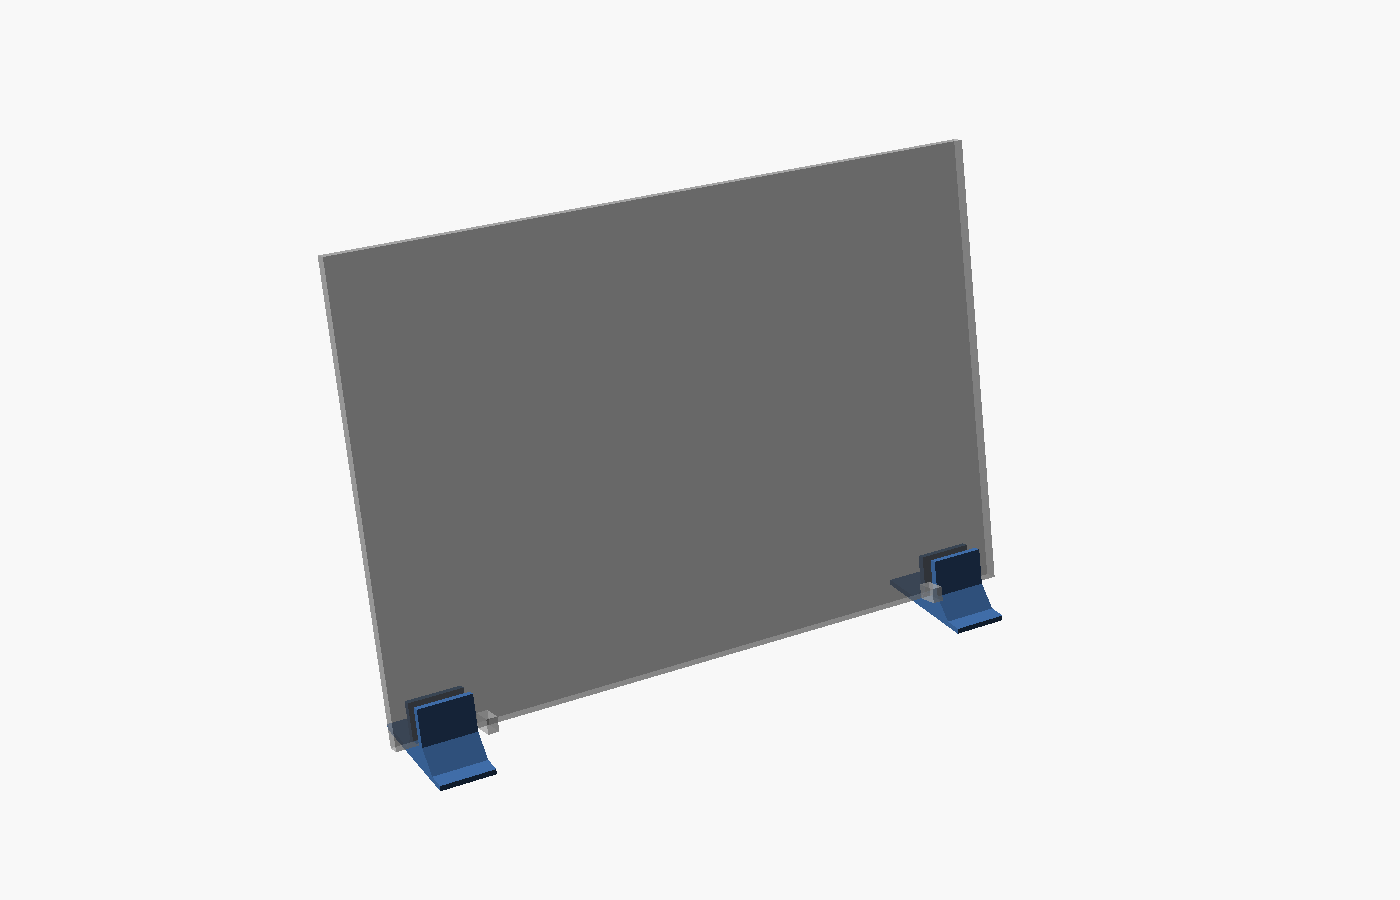
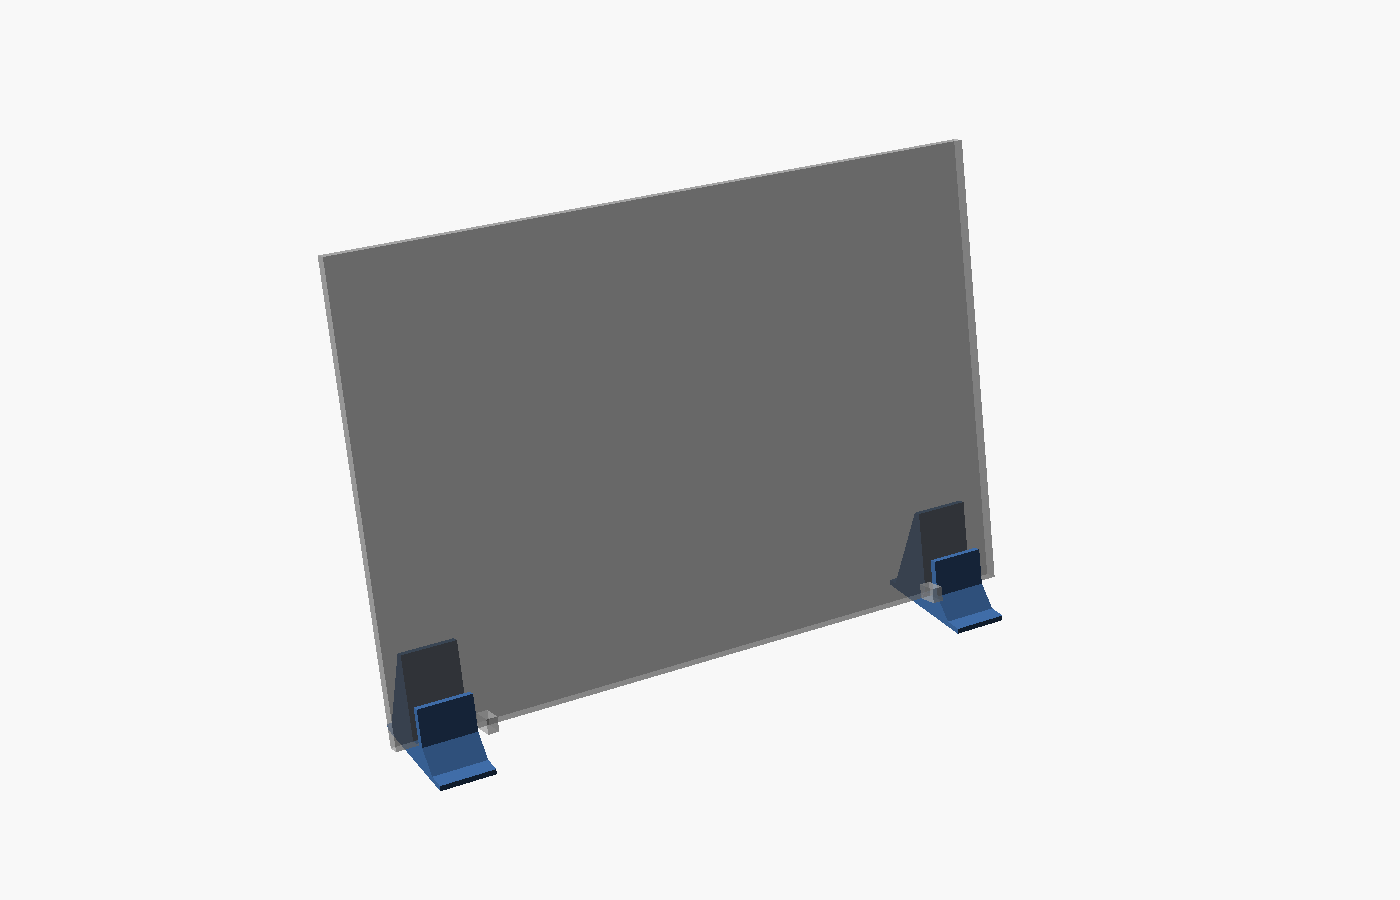
feat(stand): raise the shoe's back wall to 45 mm
The lid leans on the back wall. A taller wall with a buttress spreads the two contact points apart, which cuts the force on the wall and on the lid's bottom edge.

Changed region(s): [[0.645, 0.56, 0.7064, 0.6533], [0.2764, 0.7156, 0.3379, 0.8089]]

diff --git a/README.md b/README.md
@@ -64,7 +64,7 @@ Tune `fit`, `tol` and `insert_d` from the results.
 
 ## Interim stand
 
-`stand_shoe` (print 2): two small identical shoes that hold the bare lid upright until the case is printed (`stand` previews them with a ghost lid). Each shoe sits under the lid's bottom edge, between the corner and the hinge stub, and holds the edge in a slot `stand_grip` (20 mm) deep, leaning back `stand_tilt` (12°). The lid's bottom edge sits only `stand_h` (12 mm) above the cardboard, close to the board, because the eDP cable is short. Push each shoe against its stub: the stubs butt against the shoes' front walls, so the lid can't slide sideways. Tape the shoes' base strips onto cardboard and lay the board on the same sheet behind the lid (on its standoffs, blowers up). The cables leave the bottom edge outside the shoes. Each shoe is one side profile extruded 30 mm (65 × 33 × 30 mm): print it lying on the profile, no supports.
+`stand_shoe` (print 2): two small identical shoes that hold the bare lid upright until the case is printed (`stand` previews them with a ghost lid). Each shoe sits under the lid's bottom edge, between the corner and the hinge stub, and holds the edge in a slot with a 20 mm front wall (`stand_grip`) and a 45 mm back wall with a buttress (`stand_grip_back`): the lid leans on the back wall, so the tall wall takes load off the lid's bottom edge, leaning back `stand_tilt` (12°). The lid's bottom edge sits only `stand_h` (12 mm) above the cardboard, close to the board, because the eDP cable is short. Push each shoe against its stub: the stubs butt against the shoes' front walls, so the lid can't slide sideways. Tape the shoes' base strips onto cardboard and lay the board on the same sheet behind the lid (on its standoffs, blowers up). The cables leave the bottom edge outside the shoes. Each shoe is one side profile extruded 30 mm (65 × 55 × 30 mm): print it lying on the profile, no supports.
 
 ![stand](images/stand.png)
 
